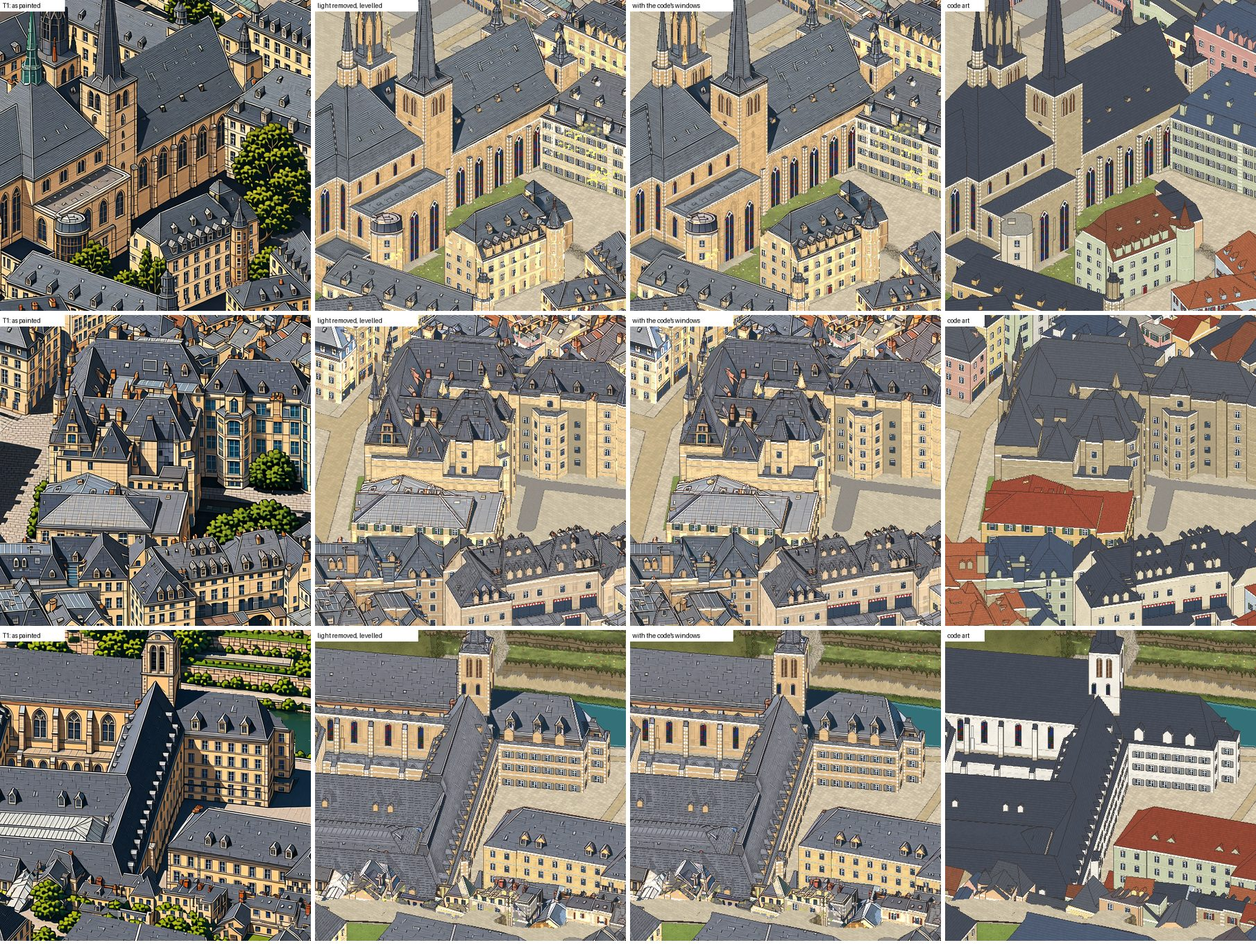
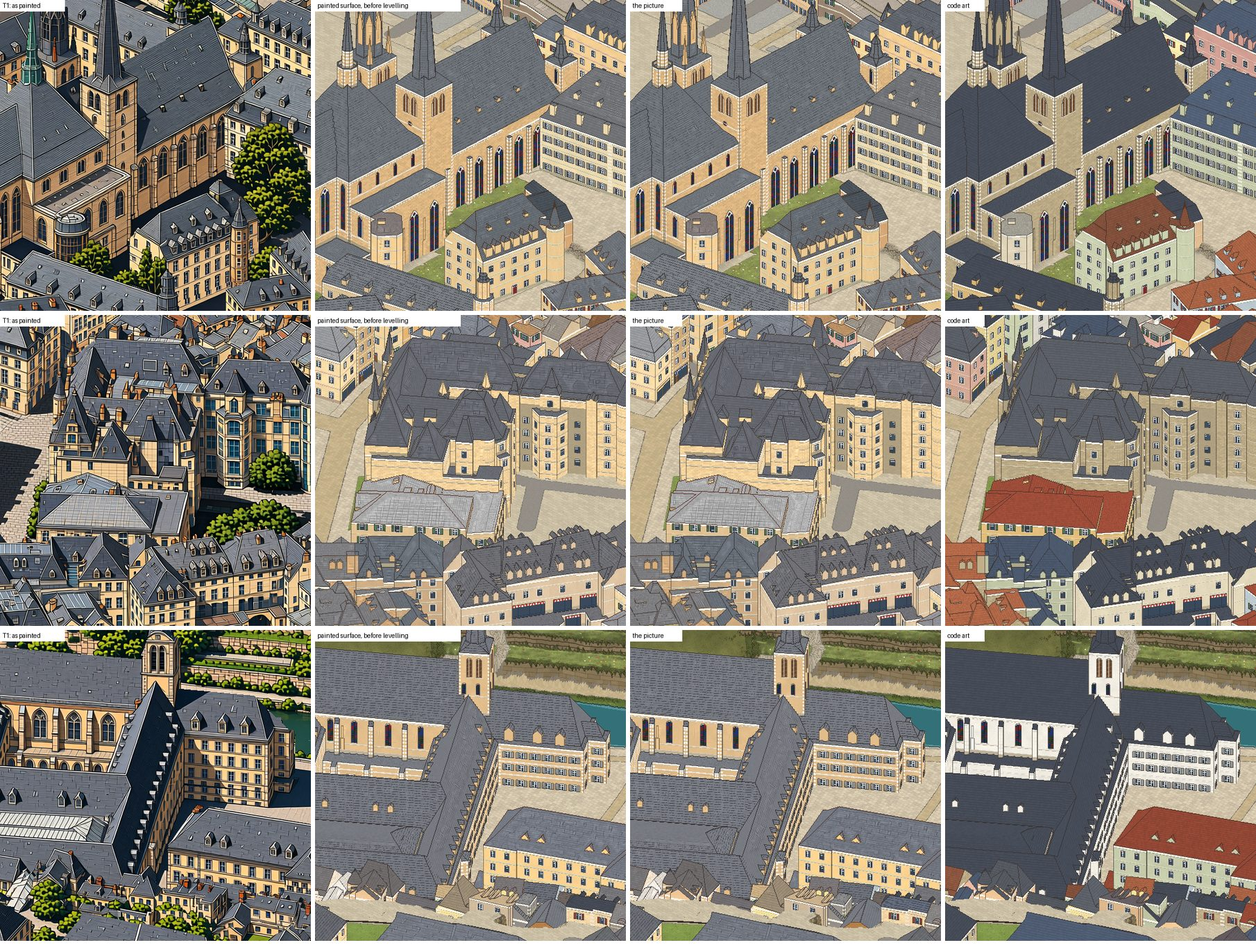
v2 phase 3: the model's details, the painting's surfaces (the owner's choice; $0)
detail.target's mode "surface": a building takes its colour and the fine
texture of its plain surfaces from the painting, and nothing the painting drew
as a thing; every window, dormer and line is the code art's. T1's 24 pictures:
flat light 24 of 24, window rows 99.8 to 100 percent, edges above the code
art's own on every window, 0 of 24 fail the vehicle detector, one building in
two paintings 0.0 percent apart at the median. Report section 21.

Changed region(s): [[0.2475, 0.0, 0.7735, 1.0], [0.7116, 0.6476, 0.7425, 0.6784], [0.2475, 0.9868, 0.2785, 1.0]]

diff --git a/v2/bakeoff/detail.py b/v2/bakeoff/detail.py
@@ -296,7 +296,12 @@ def band_colour(px, band):
 
 def transfer(code, painting, g: dict, have=None, p: dict = P, colours=None):
     """The code art with each building's wall and roof colour and fine texture taken from the (registered)
-    painting. Returns (rgb, {"parts", "skipped", "changed": share of the window's pixels})."""
+    painting. Returns (rgb, {"parts", "skipped", "changed": share of the window's pixels}).
+
+    With p["obj"] (SURFACE): the painting gives its surface only. Whatever it drew as a thing of its own on a
+    face (a window, a dormer, a skylight, a shadow's edge: where the face, blurred over obj_blur px, is brighter
+    or darker than its own tone over obj_sigma px by more than obj) is left out with a margin, softly, so no
+    outline of it stays. Every window, dormer and line is then the code art's."""
     from scipy import ndimage as ndi
     code = code.astype(float); src = painting.astype(float)
     bid, cls, face, seg = segments(g)
@@ -334,15 +339,23 @@ def transfer(code, painting, g: dict, have=None, p: dict = P, colours=None):
             r0, c0 = max(rows[0] - pad, 0), max(cols[0] - pad, 0)
             r1, c1 = min(rows[-1] + 1 + pad, H), min(cols[-1] + 1 + pad, W)
             sl = (slice(r0, r1), slice(c0, c1))
-            D = np.zeros((r1 - r0, c1 - c0))
+            D = np.zeros((r1 - r0, c1 - c0)); thing = np.zeros(D.shape, bool)
             for f in np.unique(face[sl][m[sl]]):
                 mf = (m[sl] & (face[sl] == f) & ~tree[sl]).astype(float)
                 if mf.sum() < 40:
                     continue
                 num = ndi.gaussian_filter(lys[sl] * mf, p["sigma"]); den = ndi.gaussian_filter(mf, p["sigma"])
                 D += np.where(mf > 0, lys[sl] - num / np.maximum(den, 1e-3), 0)
+                if p.get("obj"):
+                    near_ = ndi.gaussian_filter(lys[sl] * mf, p["obj_blur"]) / np.maximum(ndi.gaussian_filter(mf, p["obj_blur"]), 1e-3)
+                    tone = ndi.gaussian_filter(lys[sl] * mf, p["obj_sigma"]) / np.maximum(ndi.gaussian_filter(mf, p["obj_sigma"]), 1e-3)
+                    thing |= (mf > 0) & (np.abs(near_ - tone) > p["obj"])
             lo, hi = p["clip_" + kind]
             D = np.clip(D * p["k_" + kind], lo, hi) * fade[sl]
+            if p.get("obj"):
+                thing = ndi.binary_dilation(thing | (tree[sl] & m[sl]), iterations=p["obj_grow"])
+                D *= 1.0 - np.clip(ndi.gaussian_filter(thing.astype(float), p["obj_soft"]) * 1.6, 0, 1)
+                st["things_px"] = st.get("things_px", 0) + int((thing & m[sl]).sum()); st["px"] = st.get("px", 0) + int(m[sl].sum())
             mod = np.clip(yc[sl] / (lum(base_c) + 1.0), *p["code_mod"])
             val = target[None, None, :] * (mod * np.exp(D))[..., None]
             w = m[sl] & ~ink[sl]
@@ -1005,18 +1018,33 @@ def one_colour(tables: dict) -> dict:
 
 
 TWO_TONE = 0.25                                  # delit's two_tone for a target
+# the painting's surface only (owner, 22 Nov 2026: "Model's details, painted surfaces"): transfer's settings
+SURFACE = dict(P, k_wall=1.0, clip_wall=(-0.16, 0.10), k_roof=1.0, clip_roof=(-0.22, 0.14),
+               obj=0.22, obj_blur=2.5, obj_sigma=24.0, obj_grow=3, obj_soft=2.0)
 
 
-def target(code, painting, g: dict, meta: dict, colours=None, reg=None, two_tone=TWO_TONE) -> dict:
+def target(code, painting, g: dict, meta: dict, colours=None, reg=None, two_tone=TWO_TONE, mode="surface") -> dict:
     """A painting made into a picture the build's checks of a painting can pass: placed per building (register),
     its light removed (delit), each building's sides levelled (level), and the code art's own windows drawn in
     (the painting's windows drift from the model's, so they are left out). Where the painting cannot be used (its
     own windows, a tree it painted in front of a wall) the code art shows in the painting's colours (transfer).
     With `colours` (one_colour) each building takes its one colour, whichever painting this is. `reg`: the
-    painting already placed. Returns every stage."""
+    painting already placed. Returns every stage.
+
+    mode "surface" (the owner's choice of 22 Nov 2026): the painting gives each building its colour and the fine
+    texture of its plain surfaces, nothing it drew as a thing (transfer with SURFACE); every window, dormer,
+    roof fitting and line is the code art's. mode "drawing": as described above (sections 19 and 20 of the
+    report)."""
     from scipy import ndimage as ndi
     if reg is None:
         reg = register(code, painting, g)[0]
+    if mode == "surface":                               # the model's details, the painting's surfaces
+        sf, st = transfer(code, reg, g, p=SURFACE, colours=colours)
+        lv = level(sf, g, colours=colours)
+        ink = lum(code.astype(float)) + 1.0 < P["ink"]   # levelling scales a side whole: the code's ink stays its own
+        lv[ink] = code[ink]
+        return {"registered": reg, "delit": sf, "levelled": lv, "target": lv,
+                "faces": {"px": st.get("px", 0), "left_out_px": st.get("things_px", 0), "faces": st["parts"]}}
     under = transfer(code, reg, g, colours=colours)[0]  # the code art in the painting's colours: what shows where
     st = {}
     dl = delit(code, reg, g, photo_shadow(g, meta), base=under, own_windows=False, colours=colours,    # it is not used
@@ -1042,7 +1070,7 @@ def painting_checks(rgb, g: dict, meta: dict, scene_folder) -> dict:
     return r
 
 
-def targets(source: str = "T1", img: Path | None = None, write=True, one=True) -> dict:
+def targets(source: str = "T1", img: Path | None = None, write=True, one=True, mode="surface") -> dict:
     """Every painting of a paid run as painted (placed), with its light removed, levelled, and as a target: the
     build's checks on each (checks/targets_<source>.json), and sheets of the first candidate of each p125 window
     (as painted, levelled, target, code art; none lit). `one`: each building takes one colour for all the
@@ -1061,8 +1089,13 @@ def targets(source: str = "T1", img: Path | None = None, write=True, one=True) -
             painting = painting_for(name, source, k)[0]
             if painting is None:
                 continue
-            reg = register(code, painting, g)[0]
-            Image.fromarray(reg).save(rdir / f"{name}_{k}.png")
+            rf = rdir / f"{name}_{k}.png"                  # placing is the slow step: kept, and made again only
+            pf = base() / PAINTED[source] / f"{name}_{k}.png"   # when the painting is newer
+            if rf.exists() and rf.stat().st_mtime >= pf.stat().st_mtime:
+                reg = np.asarray(Image.open(rf).convert("RGB"))
+            else:
+                reg = register(code, painting, g)[0]
+                Image.fromarray(reg).save(rf)
             tables[f"{name}_{k}"] = part_colours(reg, g)
     colours = one_colour(tables) if one else None
     for name in input_names():
@@ -1071,7 +1104,7 @@ def targets(source: str = "T1", img: Path | None = None, write=True, one=True) -
             if f"{name}_{k}" not in tables:
                 continue
             reg = np.asarray(Image.open(rdir / f"{name}_{k}.png").convert("RGB"))
-            t = target(code, None, g, meta, colours=colours, reg=reg)
+            t = target(code, None, g, meta, colours=colours, reg=reg, mode=mode)
             res[f"{name}_{k}"] = {s: painting_checks(t[s], g, meta, scene_folder) for s in t if s != "faces"}
             res[f"{name}_{k}"]["faces"] = t["faces"]
             if write:                                      # kept for the detector, the seams and the viewer
@@ -1079,10 +1112,11 @@ def targets(source: str = "T1", img: Path | None = None, write=True, one=True) -
                 Image.fromarray(t["target"]).save(base() / "targets" / source / f"{name}_{k}.png")
             if k == 0 and name.endswith("p125"):
                 c = (slice(256, 768), slice(256, 768))
-                ims = [_label(t["registered"][c], f"{source}: as painted"), _label(t["levelled"][c], "light removed, levelled"),
-                       _label(t["target"][c], "with the code's windows"), _label(code[c], "code art")]
+                mid = ("painted surface, before levelling", "the picture") if mode == "surface" else ("light removed, levelled", "with the code's windows")
+                ims = [_label(t["registered"][c], f"{source}: as painted"), _label(t["delit" if mode == "surface" else "levelled"][c], mid[0]),
+                       _label(t["target"][c], mid[1]), _label(code[c], "code art")]
                 rows.append(_row([np.asarray(Image.fromarray(i).resize((448, 448), Image.LANCZOS)) for i in ims]))
-    out = {"source": source, "one_colour": bool(one), "building_parts_coloured": len(colours or {}), "inputs": res}
+    out = {"source": source, "mode": mode, "one_colour": bool(one), "building_parts_coloured": len(colours or {}), "inputs": res}
     if write and res:
         (base() / "checks").mkdir(parents=True, exist_ok=True)
         (base() / "checks" / f"targets_{source}.json").write_text(json.dumps(out, indent=1))

diff --git a/v2/bakeoff/tests/test_detail.py b/v2/bakeoff/tests/test_detail.py
@@ -509,3 +509,27 @@ def test_where_two_blocks_overlap_a_building_comes_from_the_block_that_shows_the
         got[ty * TILE:(ty + 1) * TILE, tx * TILE:(tx + 1) * TILE] = read_tile(out / "buildings" / "0", nm, tiles["0"][nm])["rgb"]
     assert (got[(ids >> 8) == 1] == 200).all()                          # a shows all of it, b a quarter: all from a
     assert (got[(ids >> 8) == 2] == 90).all()                           # b shows all of it: all from b, also inside a
+
+
+def test_surface_mode_takes_the_paintings_colour_and_plain_texture_and_none_of_its_things(monkeypatch):
+    code, g = scene()
+    cls = g["ids"] & 255; bid = g["ids"] >> 8
+    rr, cc = np.indices(cls.shape)
+    painting = painting_of(code, g).astype(float)                       # roofs hatched; a painted window on each wall
+    wall1 = (cls == 11) & (bid == 1)
+    thing = wall1 & (rr >= 78) & (rr < 100) & (cc >= 60) & (cc < 84)    # a window of the painting's own, elsewhere
+    painting[thing] = (30, 40, 70)
+    painting = painting.astype(np.uint8)
+    monkeypatch.setattr(D, "photo_shadow", lambda g, meta, rel=None: None)
+    t = D.target(code, None, g, {}, reg=painting, mode="surface")["target"]
+    inner = wall1 & (D.lum(code.astype(float)) > 100)
+    assert np.abs(np.median(t[inner], axis=0) - (240, 210, 150)).max() <= 8          # the painting's wall colour
+    core = np.zeros_like(thing); core[82:96, 64:80] = True
+    plain = np.zeros_like(thing); plain[82:96, 34:44] = True
+    a, b = D.lum(t[core].astype(float)).mean(), D.lum(t[plain & inner].astype(float)).mean()
+    assert abs(a / b - 1) < 0.03                                         # its own window: gone, no patch, no outline
+    assert (t[cls == 12] == code[cls == 12]).all() and D.ink_changed(code, t) == 0    # the code's windows and ink
+    roof_in = np.zeros(cls.shape, bool); roof_in[48:62, 40:90] = True
+    assert t[roof_in].std() > code[roof_in].std() + 1                    # the roof's hatch: a plain surface, kept
+    d = D.target(code, None, g, {}, reg=painting, mode="drawing")["target"]
+    assert not (d[cls == 11] == t[cls == 11]).all()

diff --git a/v2/bakeoff/__main__.py b/v2/bakeoff/__main__.py
@@ -139,7 +139,7 @@ def cmd_detail(a):
 
 def cmd_targets(a):
     from v2.bakeoff import detail as D
-    res = D.targets(a.source)
+    res = D.targets(a.source, mode=a.mode)
     for k, v in res["inputs"].items():
         print(k, json.dumps(v))
     if not res["inputs"]:
@@ -411,6 +411,9 @@ def main(argv=None):
     tr = sub.add_parser("trial"); tr.add_argument("--no-build", action="store_true", help="measure only, no C4 build")
     sub.add_parser("pilot-gates")
     tg = sub.add_parser("targets"); tg.add_argument("--source", choices=["T1", "T2", "T3"], default="T1")
+    tg.add_argument("--mode", choices=["surface", "drawing"], default="surface",
+                    help="surface: the painting gives colour and plain-surface texture, the code art every detail (the "
+                         "owner's choice); drawing: the painting's own drawing is kept (report sections 19, 20)")
     tg.add_argument("--cars", action="store_true", help="also the vehicle detector on every target")
     tg.add_argument("--viewer", action="store_true", help="also the release with the targets in it, as area test_painted")
     dt_ = sub.add_parser("detail"); dt_.add_argument("--source", choices=["free", "T1", "T2", "T3"], default="free")

diff --git a/v2/docs/PHASE3_REPORT.md b/v2/docs/PHASE3_REPORT.md
@@ -1982,4 +1982,75 @@ they do not.
 54. **Whose details?** (a) The painting gives surfaces only (stone, slate, colour); every window, dormer and
     roof fitting is the model's, and the model gets the ones it lacks (windows on dormers; the real windows
     of landmarks, from a hand-made file as their materials are). (b) The painting's details are kept where a
-    face is clean, and the model's windows are not drawn there. (c) Stop the paint route.
+    face is clean, and the model's windows are not drawn there. (c) Stop the paint route. (Answered on 22 November:
+    "Model's details, painted surfaces", section 21.)
+
+## 21. The model's details, the painting's surfaces (22 November, $0)
+
+Branch `v2-phase3-surfaces`. **Spent: $0.** No pod. PR #19 was merged first, on the owner's "Merge once CI
+passes" (CI green on both commits). The owner's decision on question 54: "Model's details, painted surfaces".
+
+### 21.1 What the picture is now (`detail.target`, mode "surface")
+
+- **From the painting:** each building's colour, walls and roofs (one colour a building, section 20), and the
+  fine texture of its plain surfaces, gently.
+- **Not from the painting:** anything it drew as a thing of its own on a face. A window, a dormer, a skylight,
+  a hatch, a shadow's edge: wherever a face, looked at a few pixels wide, is brighter or darker than its own
+  tone, the painting's texture is left out there with a margin, softly, so no outline of it stays.
+- **From the code art:** every window, door, shutter, dormer, quoin, course and line, and the coursing and
+  slating it draws itself, in the painting's colour.
+- The earlier way (the painting's own drawing kept, sections 19 and 20) is still in the tool as mode
+  "drawing".
+
+### 21.2 The checks, on T1's 24 paintings made into pictures this way
+
+| Check | Drawing kept (section 20) | Surfaces only |
+|---|---|---|
+| Even light (5% per building) | 24 of 24, worst 2.6% | **24 of 24**, worst 0.8% |
+| Window rows (95%), 12 close ups | 99.1% to 100% | **99.8% to 100%** |
+| Building edges (95%), 12 close ups | 96.6% to 99.2% | **94.2% to 98.0%**: above the code art's own score on every window (92.5% to 97.1%). The two under 95% are the Bock's close up, where the code art itself is at 92.5%. |
+| Vehicles (the build's detector) | 3 of 24 fail | **0 of 24 fail** |
+| One building in two paintings, the two candidates: median; share over 5% | 1.2%; 15% | **0.0%; 0.2%** |
+| One building in two blocks' paintings (real neighbours): median; share over 5% | 1.1%; 9% | **0.1%; 1.4%** |
+
+These pass because of what the picture now is: the code art, which passes them, in another colour. That is
+the point of the choice, and it is also its price:
+
+- **What is left of the painting is mostly colour.** On 64% of the painted surface (57% to 78% a picture) the
+  painting's texture is left out as a thing. What stays is a faint grain on plain walls and roofs.
+- The faults of section 20.7 are gone from the pictures: no shapes of the painting's windows, no marks on
+  the roofs, one painting a building. Dormers still have no windows, since the code art draws none: that is
+  the model's to add (below).
+
+Sheets made again: `v2/docs/img/test_detail_targets_t1_1.jpg`, `_2.jpg` (as painted; the painted surface
+before levelling; the picture; the code art). The viewer's copy was made again
+(`python -m v2.view test_painted --port 5175`); screenshot `test_detail_viewer_cathedral_day.jpg` (its trees
+had not loaded in my test browser). The two other screenshots of section 19.3 showed the earlier way and
+are removed.
+
+### 21.3 What follows from it
+
+- **Cheaper painting.** If a painting gives colour and a faint grain, it need not be at v2's scale. At half
+  scale a window covers four times the ground: the test area would take about a quarter of section 18.3's
+  107 windows. Not quoted, not tried at coarser scales.
+- **Other viewing angles.** A building's colour does not depend on the direction it is seen from. The colour
+  table could serve every direction; only the grain would need a painting per direction, or be left out.
+  Not tried.
+- **The model's missing details are now the work.** The facade rules leave dormer windows for later
+  (`v2/docs/specs/facades.md`, rule 13), and a church's windows are a layout, not a survey. Next, in code:
+  windows on dormers; then the real windows of landmarks from a hand-made file. Each needs the test area
+  built again (about an hour on the laptop) and its gates.
+
+### 21.4 Not verified
+
+- The full build and its gates were not run; no layer, check or threshold changed. The tool's and the
+  ledger's tests pass (61).
+- Only the cathedral block was looked at in the viewer after this change; the Grund block did not finish
+  loading in my test browser.
+- The settings for what counts as a thing were chosen on two pictures by eye, the strictest of three tried
+  (the gentlest left faint shapes of the painting's windows).
+- Night, far zoom and the build's gates on tiles made this way: as in section 20.4.
+
+### 21.5 Open questions
+
+44 and 46 stand. 53 (paint the whole test area) waits for the dormer windows.

diff --git a/research/v2/DECISIONS.md b/research/v2/DECISIONS.md
@@ -86,3 +86,4 @@ one is a decision for the owner, written here with its date.
 | Free step first; commits and PRs without asking (22 Nov) | Shown the plan (report section 18) and asked whether to do its free step now (fix the pictures' faults in code, run the car and seam checks, put the six blocks in the viewer under moving light), the owner answered on 22 Nov 2026: "Do the free step (Recommended)". Asked in the same step whether to commit the work and open a pull request into `v2`, the owner answered: "don't ask me for this step each time". Taken to mean: commit a finished step to its branch and open the pull request without asking; merging and every paid run are still asked each time. The free step was done on 22 Nov 2026 (report section 19): the pictures pass even light (24 of 24) and lines (12 of 12); 2 of 24 fail the vehicle detector; one building's colour differs between paintings (the open problem). The six blocks are in the viewer as area `test_painted`. |
 | Other viewing angles, after v2 (22 Nov) | The owner asked whether a visitor can turn the map when v2 is done, and how the Rio map (tinyrj.com) does it. Told that v2 has one viewing direction and that Rio draws its whole map once per direction, the owner said on 22 Nov 2026: "later when we are finished with v2 I want to add the other angles then, add this to the plan". It is in `PLAN_V2.md` section 10.1: after gate G5, outside v2's budget and gates, with its own plan and quote then. |
 | The six blocks look good; one colour per building; PR #18 merged (22 Nov) | Shown the six blocks in the viewer under moving light (report section 19) and asked (1) how they look, (2) whether to do the free colour fix next (one colour per building) and (3) whether to merge PR #18 into `v2` once CI is green, the owner answered on 22 Nov 2026: "1- looks good 2- go ahgead 3- yes". CI was green on all three commits; merged as d1993f0. "Looks good" is the owner's eye on the trial's six blocks; it does not decide gate G2 (method A stands, question 44). The colour fix was done on 22 Nov 2026 at $0 (report section 20): one building in two paintings now differs by 1.2% at the median (12.6% before); a guard leaves out faces the painting shows in two tones (a third of the painted surface). |
+| Whose details: the model's, with painted surfaces; PR #19 merged (22 Nov) | The owner looked closely at the six blocks and sent four faults (patchy textures and dormers with no windows; the cathedral apse's windows incomplete; its tower's windows in the wrong place; odd marks on its roof), and asked whether the model adding every detail leads to irregularities. Told that the faults come from mixing the painting's details with the 3D model's (and one from a mistake in the trial: its blocks overlap), and asked whose details the map should use, the owner decided on 22 Nov 2026, in the owner's words: "Model's details, painted surfaces". Asked in the same step whether to merge PR #19, the owner answered: "Merge once CI passes"; merged as a192c03. Done at $0 (report section 21). The option as put to the owner said it restarts the code-art work that was paused (windows on dormers, real windows for landmarks): that pause is lifted for those two things. |
